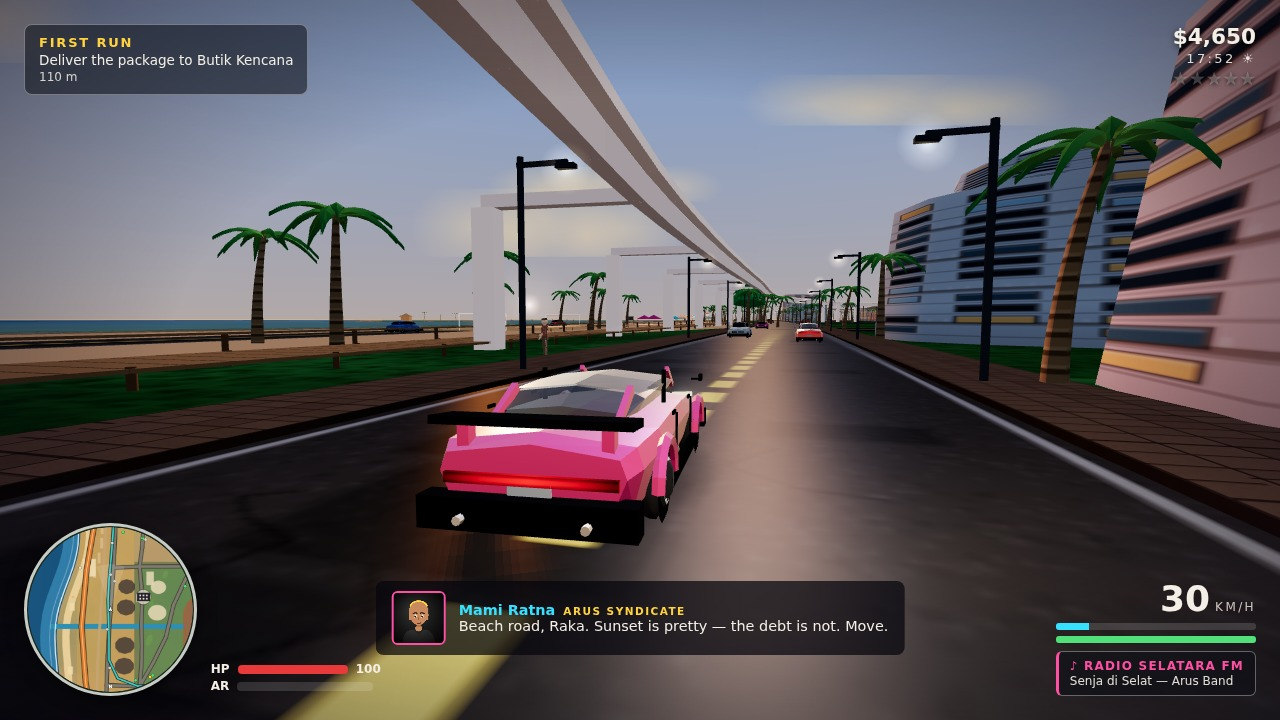
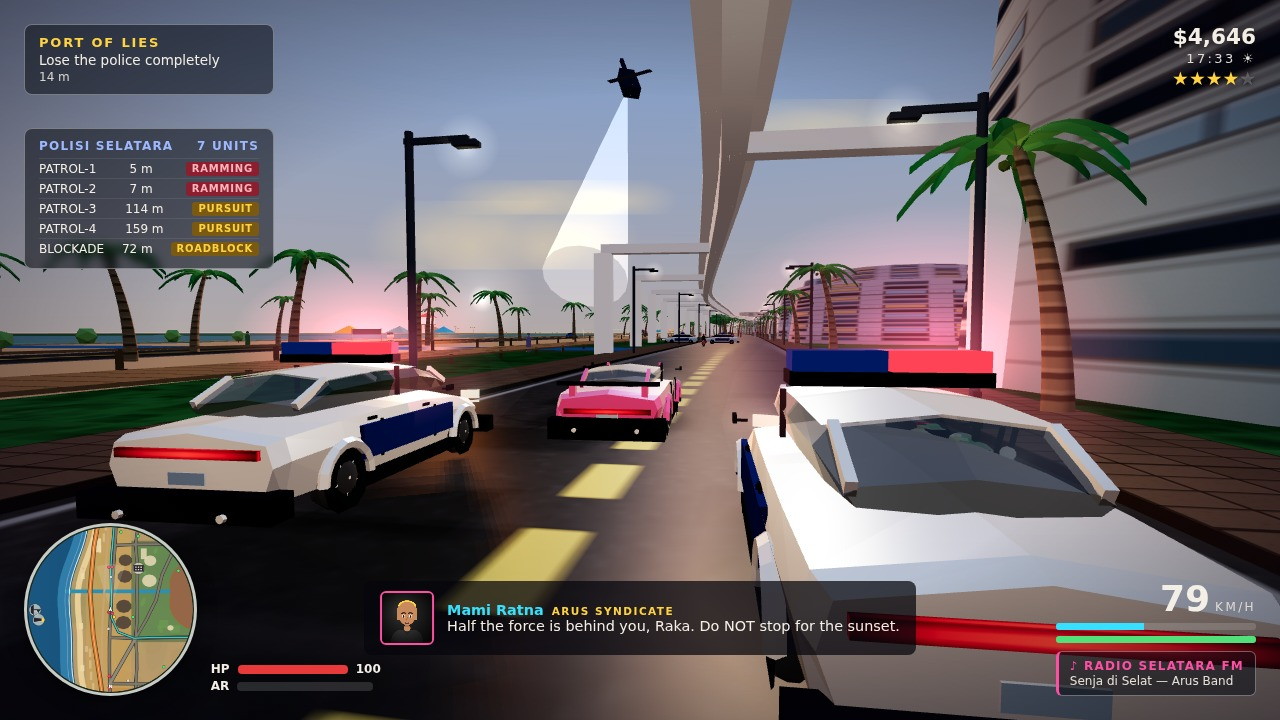
Restage official screenshots: cover + chase as sunset wanted chases (top-leader composition grammar)

diff --git a/game/src/shots.js b/game/src/shots.js
@@ -93,26 +93,59 @@
       st.mode = 'playing';
 
       if (name === 'cover') {
-        // Golden-hour westbound drive on the Pantai Kencana beachfront
-        // street, which now bends with the coast (z from beachRoadZ):
-        // hotels and palms on the right, open sea on the left, and the
-        // sun sprite visible ahead over the water.
-        SH.Main.setHour(17.85);
-        var car = SH.Vehicles.spawnVehicle(scene, 'sport', 0xff4fa3, -30, SH.World.beachRoadZ(-30), -Math.PI / 2);
+        // RESTAGE (2026-11-20): the cover is the pursuit, not the cruise.
+        // Grammar taken from the current #1 cover (composition only —
+        // every asset, name and HUD element is ours): low chase camera
+        // behind the player's sport car at speed, TWO police units
+        // flanking with lightbars lit, the air unit hanging ahead in
+        // the top of the frame, wanted stars + police panel + mission
+        // panel + dialogue + radio all live, and the low sun at the
+        // end of the road as backlight. Staged entirely through the
+        // real systems: Police.stageChase() for the pursuit, with the
+        // heli orbit and the roadblock re-aimed for the capture moment
+        // (game time runs ~1 s of physics inside the render window, so
+        // everything is placed for where the car IS at capture, not
+        // where it starts).
+        SH.Main.setHour(17.55);
+        var car = SH.Vehicles.spawnVehicle(scene, 'sport', 0xff4fa3, 60, SH.World.beachRoadZ(60), -Math.PI / 2);
+        car.speed = 22; // already at speed at capture: the readout must say so (79 km/h)
         enterClean(car);
-        st._shotCruise = { speed: 15 };
-        st.camYaw = Math.PI / 2; st.camPitch = 0.04;
+        st._shotCruise = { speed: 22 };
+        st._shotCamDist = 9.0; // wider than cruise framing: flankers + lightbars fit
+        st.camYaw = Math.PI / 2; st.camPitch = 0.03;
         snapCamera();
         st.cash = 4650;
-        st.objective = { title: 'FIRST RUN', text: 'Deliver the package to Butik Kencana', x: 60, z: 178 };
+        st.objective = { title: 'PORT OF LIES', text: 'Lose the police completely', x: 60, z: 232 };
+        if (SH.Police) {
+          SH.Police.stageChase();
+          // Air unit: park the orbit centre ~75 m ahead of the car and
+          // freeze lastKnown on the same point so it does not drift
+          // back; the frozen orbit angle then hangs the heli a further
+          // ~31 m west and 15 m south — ~115 m from the camera, where
+          // the whole aircraft (not just its searchlight cone) fits
+          // the upper frame as a distant silhouette over the road's
+          // end. (At ~70 m only the cone crossed the frame and read
+          // as a floating beam — measured on the v2 render.)
+          if (SH.Police.heli) {
+            SH.Police.heli.cx = -15; SH.Police.heli.cz = SH.World.beachRoadZ(-15);
+            SH.Police.heli.angle = 2.7;
+          }
+          SH.Police.lastKnown.x = -15; SH.Police.lastKnown.z = SH.World.beachRoadZ(-15);
+          // Roadblock: stageChase parks it 60 m ahead of the START;
+          // push it a little further west so it is still ahead (and
+          // readable mid-frame) at capture.
+          var blk = SH.Police.blocks || [];
+          for (var bi = 0; bi < blk.length; bi++) {
+            blk[bi].veh.x -= 25;
+            SH.Vehicles.syncMesh(blk[bi].veh);
+          }
+        }
         stageTraffic([
-          { from: [0, 228], to: [-120, 228], t: 0.42 },
-          { from: [-120, 228], to: [0, 228], t: 0.3 },
-          { from: [-240, 228], to: [-120, 228], t: 0.75 },
-          { from: [120, 228], to: [0, 228], t: 0.55 }
+          { from: [-120, 228], to: [-240, 228], t: 0.5 },
+          { from: [120, 228], to: [240, 228], t: 0.4 }
         ]);
-        stagePeds([[-52, 241], [-18, 224], [8, 246], [-84, 221]]);
-        if (SH.HUD) SH.HUD.subtitle('Mami Ratna', 'Beach road, Raka. Sunset is pretty — the debt is not. Move.', 30);
+        stagePeds([[36, 250], [88, 250], [12, 252], [104, 222]]);
+        if (SH.HUD) SH.HUD.subtitle('Mami Ratna', 'Half the force is behind you, Raka. Do NOT stop for the sunset.', 30);
       } else if (name === 'drive') {
         // Northbound through Pelita Heights at golden hour, towers both sides.
         SH.Main.setHour(17.9);
@@ -134,16 +167,30 @@
       } else if (name === 'chase') {
         // Four-star pursuit on the Pelita avenue at dusk: patrol cars behind,
         // roadblock ahead, helicopter above, police panel on the HUD.
+        // RESTAGE (2026-11-20): same pursuit grammar as the new cover,
+        // different scene + tighter camera for contact-sheet variety —
+        // the car starts at speed (readout ~72 km/h, was 30), the
+        // framing closes in (dist 7), and the air unit is parked ahead
+        // over the avenue so its silhouette + searchlight cross the
+        // upper frame instead of orbiting out of shot.
         SH.Main.setHour(18.1);
         var car3 = SH.Vehicles.spawnVehicle(scene, 'sedan', 0xe83a3a, -120, -118, Math.PI);
+        car3.speed = 20;
         enterClean(car3);
-        st._shotCruise = { speed: 16 };
-        st._shotCamDist = 8.5; // wider chase framing: staged units + lightbars fit
+        st._shotCruise = { speed: 20 };
+        st._shotCamDist = 7; // tighter than the cover: the avenue chase is the intense one
         st.camYaw = 0; st.camPitch = 0.05;
         snapCamera();
         st.cash = 3120;
         st.objective = { title: 'PORT OF LIES', text: 'Lose the police completely', x: -120, z: -118 };
-        if (SH.Police) SH.Police.stageChase();
+        if (SH.Police) {
+          SH.Police.stageChase();
+          if (SH.Police.heli) {
+            SH.Police.heli.cx = -120; SH.Police.heli.cz = -193;
+            SH.Police.heli.angle = -1.05;
+          }
+          SH.Police.lastKnown.x = -120; SH.Police.lastKnown.z = -193;
+        }
         // Traffic stays OUT of the player's avenue: one car far ahead in the
         // same avenue, one crossing on the next avenue — nothing can stack
         // onto the staged pursuit formation.
